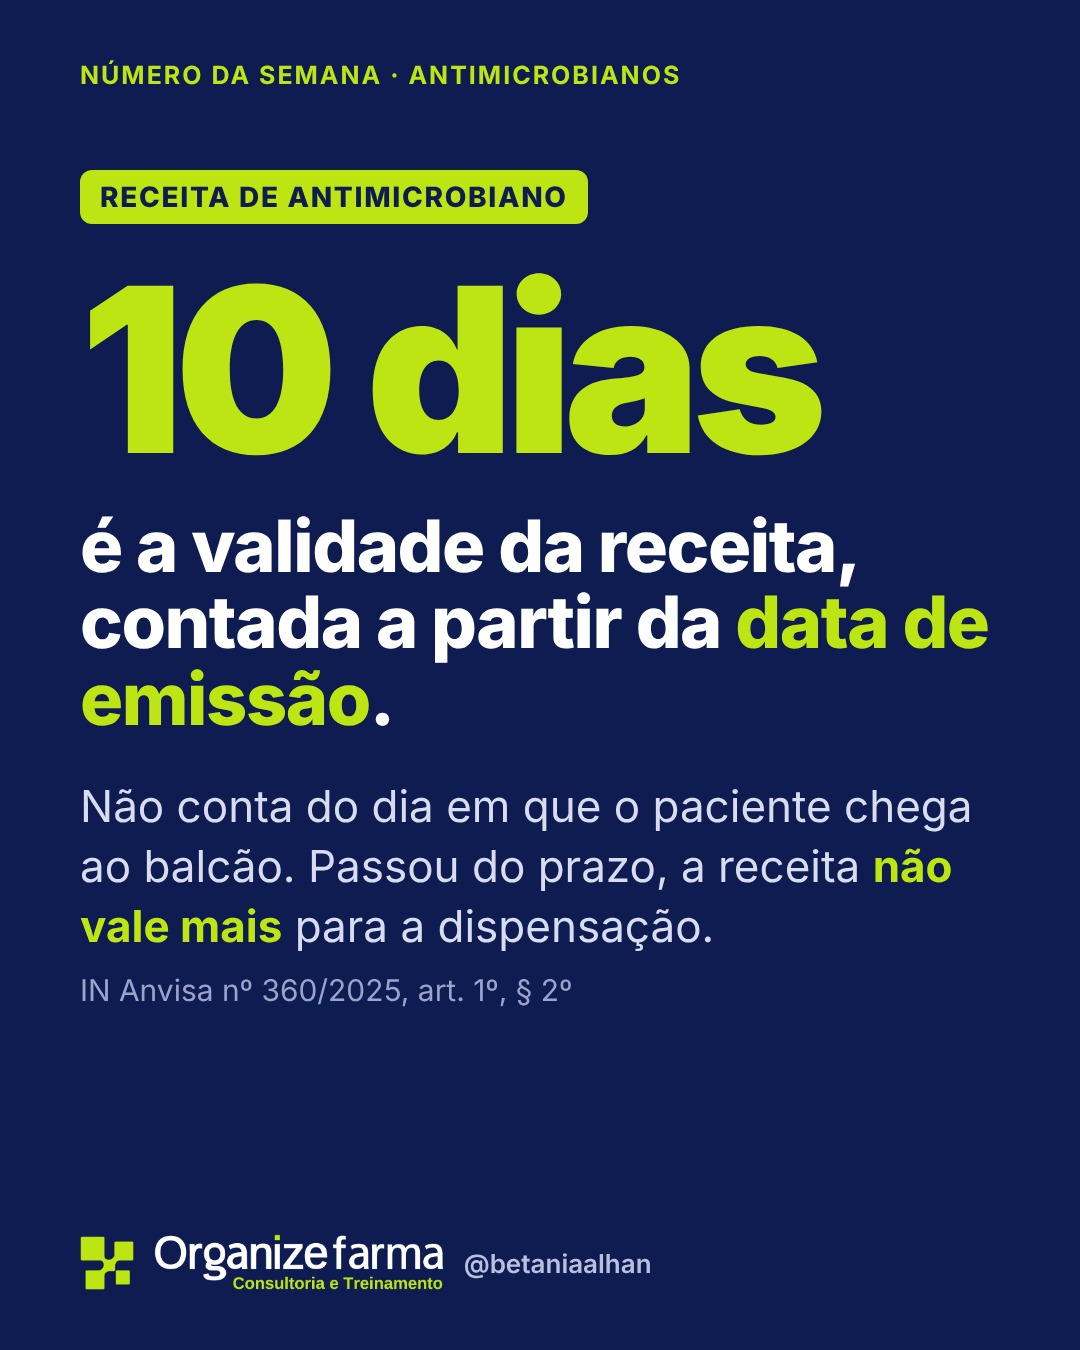
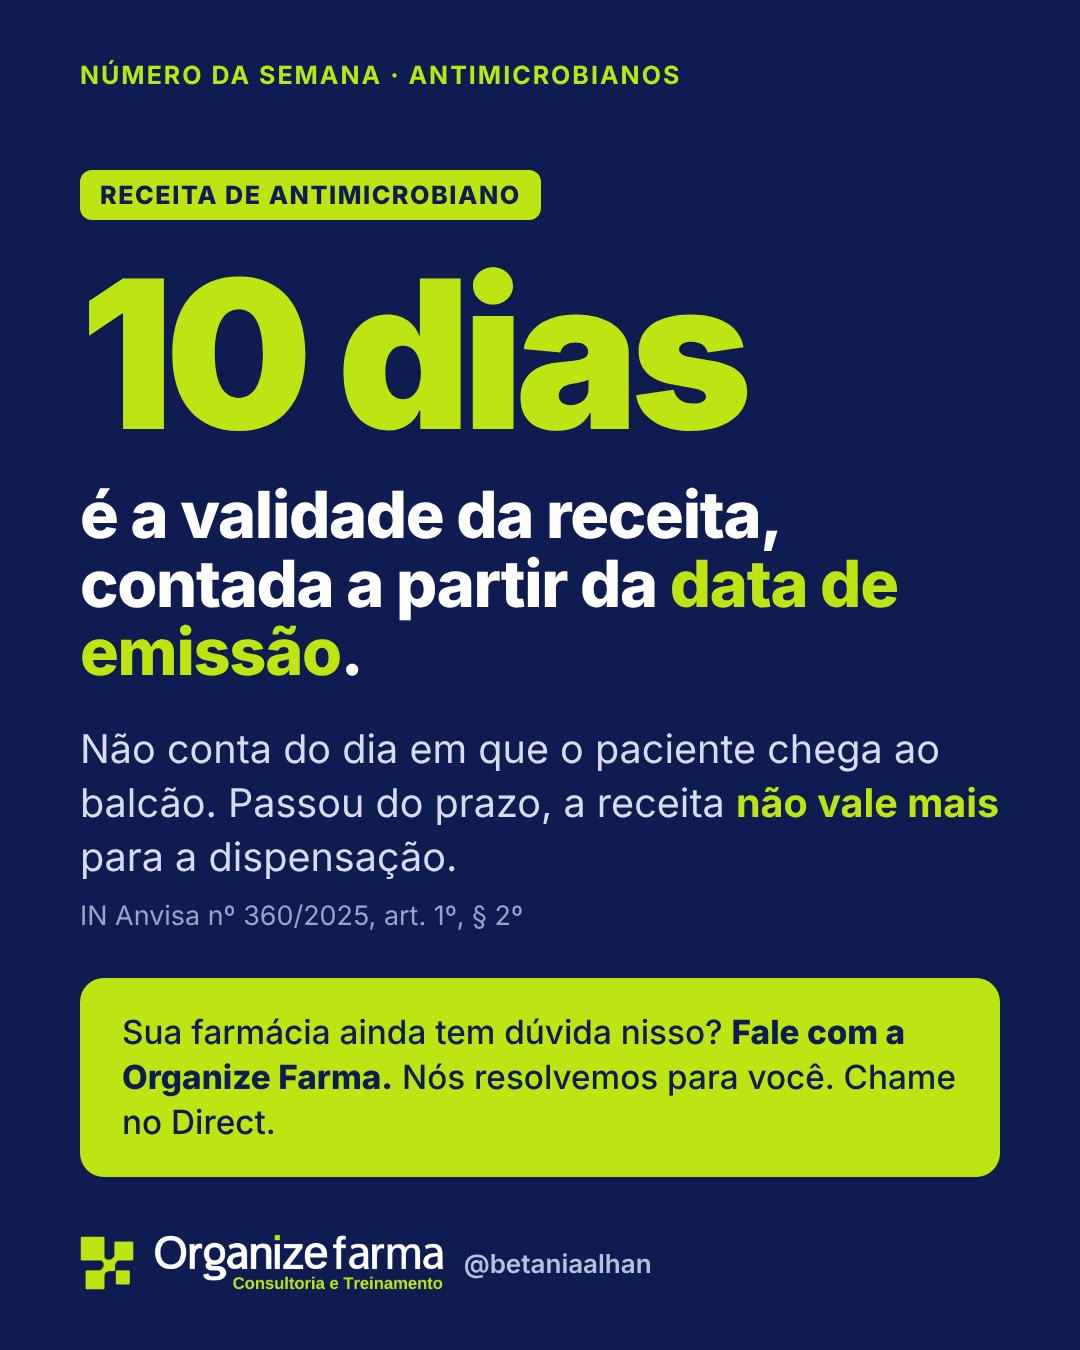
Novo calendário de temas, CTA obrigatória e fim da publicação automática
- ROTINA: segunda VISA, terça CFF/licenciamento, quarta carreira, quinta perfil
  comportamental, sexta leve (sextou); CTA da Organize Farma na última tela;
  publicação só pela Dra. Betânia, pelo app (restrição da Meta em 04/11)
- arte.py: campo cta em qualquer tela e falha se a última tela não tiver CTA
- banco-de-angulos: ângulos dos novos pilares
- card 04/11 com CTA

Claude-Session: https://claude.ai/code/session_01N47aHq1u6kxxunFyFQWEjM

Changed region(s): [[0.0611, 0.1244, 0.9472, 0.8711]]

diff --git a/fonte/arte.py b/fonte/arte.py
@@ -24,6 +24,12 @@ Tipos de tela (campo "tipo" de cada item de "telas"):
   enquete pergunta, opcoes[], [lead]                               (stories: enquete/caixa)
   final   titulo, [cta], [fontes]                                 (logo grande)
 Nos textos, <em>…</em> pinta de verde-limão e <b>…</b> destaca.
+
+Chamada para ação (obrigatória): a ÚLTIMA tela de todo post precisa de CTA.
+  - tela "final": campo "cta";
+  - qualquer outro tipo (ex.: card único): campo "cta", que vira uma faixa
+    verde-limão no fim da tela.
+  Sem CTA na última tela, o gerador falha. Modelo de CTA: ver ROTINA.md, seção 3.
 """
 import base64
 import json
@@ -149,6 +155,12 @@ def corpo(t):
     raise ValueError(f"tipo de tela desconhecido: {tipo}")
 
 
+def faixa_cta(t):
+    if t["tipo"] == "final" or not t.get("cta"):
+        return ""
+    return f'<div class="alerta">{t["cta"]}</div>'
+
+
 def pagina(spec, n, total, t, w, h, vertical):
     dots = "".join(f'<span class="{"on" if i == n else ""}"></span>' for i in range(1, total + 1)) if total > 1 else ""
     pill = f'<span class="pill">{n}/{total}</span>' if total > 1 and spec["formato"] == "carrossel" else ""
@@ -159,7 +171,7 @@ def pagina(spec, n, total, t, w, h, vertical):
                  f'<span class="arroba">{ARROBA}</span></div>')
     return f"""<!doctype html><html lang="pt-BR"><head><meta charset="utf-8"><style>{css(w, h, vertical)}</style></head><body>
 <div class="topo"><span class="tag">{spec["tag"]}</span>{pill}</div>
-<div class="conteudo">{corpo(t)}</div>
+<div class="conteudo">{corpo(t)}{faixa_cta(t)}</div>
 <div class="rodape">{marca}<div class="dots">{dots}</div></div></body></html>"""
 
 
@@ -192,6 +204,8 @@ def gerar(caminho_json):
     mn, mx = LIMITES[fmt]
     if not mn <= len(telas) <= mx:
         raise ValueError(f"{fmt} pede de {mn} a {mx} telas; vieram {len(telas)}")
+    if not telas[-1].get("cta"):
+        raise ValueError("a última tela precisa de chamada para ação (campo \"cta\"); ver ROTINA.md, seção 3")
     saida = arq.parent
     for antigo in list(saida.glob("*.jpg")) + list(saida.glob("*.mp4")):
         antigo.unlink()

diff --git a/ROTINA.md b/ROTINA.md
@@ -5,17 +5,19 @@ o tema pode voltar, mas cada post traz uma informação nova.
 Toda arte sai com a logo, o nome "Organize farma" e as cores da marca.
 **Nada é publicado sem o OK da Dra. Betânia.**
 
-## 1. Calendário de formatos
+## 1. Calendário de formatos e temas (a partir de 05/11/2026)
 
-| dia | formato | tipo de conteúdo | horário sugerido |
+Cada dia da semana tem um TEMA fixo. O formato continua variando.
+
+| dia | formato | tema do dia | horário sugerido |
 |---|---|---|---|
-| segunda | **carrossel** (5–7 telas) | ENSINA: passo a passo ou checklist aplicável hoje | 12h |
-| terça | **reel** animado (4–5 telas, ~15 s) | VOCÊ SABIA / pergunta e resposta rápida | 19h |
-| quarta | **card** único | NÚMERO: um prazo, validade ou dado da norma em destaque | 12h |
-| quinta | **carrossel** (4–6 telas) | ERROS COMUNS ou comparação em tabela (X × Y) | 12h |
-| sexta | **reel** animado (3–4 telas) | OPINIÃO / frase da Dra. Betânia sobre o setor | 19h |
-| sábado | **card** único | MITO × VERDADE | 10h |
-| domingo | **stories** (3–5 telas) | ENQUETE ou caixa de perguntas + bastidor da semana | 18h |
+| segunda | **carrossel** (5–7 telas) | **VIGILÂNCIA SANITÁRIA**: normas da Anvisa, da vigilância estadual e da municipal (licença, AFE, POPs, inspeção, RDCs) | 12h |
+| terça | **reel** animado (4–5 telas, ~15 s) | **CFF E ATUAÇÃO DO FARMACÊUTICO**: resoluções do CFF sobre atribuições, responsabilidades e áreas de atuação; licenciamento de consultório farmacêutico, telefarmácia e farmácia | 19h |
+| quarta | **card** único | **CARREIRA**: crescimento e desenvolvimento profissional do farmacêutico (ponte para a mentoria) | 12h |
+| quinta | **carrossel** (4–6 telas) | **PERFIL COMPORTAMENTAL**: liga com o tema de quarta. O farmacêutico está na atividade certa para o perfil dele? Gasta energia demais no que poderia fazer melhor e mais rápido? | 12h |
+| sexta | **reel** animado (3–4 telas) | **SEXTOU (LEVE)**: tom leve e bem-humorado, lembrando que muito farmacêutico trabalha sábado, domingo e feriado; chama para a mentoria (mais tempo de qualidade) | 19h |
+| sábado | **card** único | **MITO × VERDADE** (tema livre entre os pilares, respeitando a variedade) | 10h |
+| domingo | **stories** (3–5 telas) | **ENQUETE** ou caixa de perguntas + bastidor da semana | 18h |
 
 Novidade regulatória urgente (norma nova, prazo, prorrogação) entra no lugar
 do post do dia como **ALERTA**, no formato do dia. Se o tema já saiu nos
@@ -23,25 +25,31 @@ do post do dia como **ALERTA**, no formato do dia. Se o tema já saiu nos
 
 ## 2. Pilares (temas) e regras de variedade
 
-| código | pilar |
-|---|---|
-| CTRL | SNCR, receituários e medicamentos controlados (RDC 1.000/2025, Portaria 344/98, SNGPC) |
-| ATM | Antimicrobianos e GLP-1 (RDC 471/2021, RDC 973/2025, IN 360/2025) |
-| LIC | Licenças, vigilância sanitária e documentação (AFE, licença, POPs, PGRSS, autoinspeção) |
-| SERV | Serviços farmacêuticos (EAC — RDC 978 e 986/2025, vacinação, prescrição, testes) |
-| PUB | Publicidade, comunicação e vitrine (RDC 96/2008) |
-| CAR | Carreira, liderança e responsabilidade técnica do farmacêutico |
+| código | pilar | dia |
+|---|---|---|
+| VISA | Vigilância sanitária: Anvisa, estadual e municipal (AFE, licença, POPs, PGRSS, inspeção, controlados, antimicrobianos, RDC 44/2009, RDC 1.000/2025…) | segunda |
+| CFF | Resoluções do CFF: atribuições, responsabilidades, áreas de atuação; licenciamento de consultório, telefarmácia e farmácia | terça |
+| CAR | Carreira e desenvolvimento do farmacêutico | quarta |
+| PERF | Perfil comportamental e energia no trabalho (liga com a quarta) | quinta |
+| LEVE | Sextou: leve, humor, descanso e qualidade de vida do farmacêutico | sexta |
+
+Sábado e domingo usam qualquer pilar acima, sem repetir o pilar do dia anterior.
+Os códigos antigos (CTRL, ATM, LIC, SERV, PUB) do registro contam como VISA,
+exceto SERV, que conta como CFF.
 
 1. Antes de criar, leia `posts/registro.csv` (tudo o que já foi feito).
-2. **Nunca o mesmo pilar em dois dias seguidos**; no máximo 2 vezes por semana.
+2. O tema do dia manda (segunda a sexta). No sábado/domingo, nunca o mesmo pilar do dia anterior.
 3. **Nunca o mesmo ângulo em menos de 60 dias.** Ângulo = a informação específica
    do post. Se um ponto já saiu, só pode ser citado em uma frase ("veja o post de…").
 4. Escolha o ângulo em `banco-de-angulos.md` (marque como usado) ou crie um novo
    a partir de notícia da semana.
-5. Todo dado regulatório é conferido na fonte oficial do dia (Anvisa, DOU, CFF, CRF)
-   antes de entrar na arte. Datas, números de norma e prazos com fonte.
+5. Todo dado regulatório é conferido na fonte oficial do dia (Anvisa, DOU, CFF, CRF,
+   vigilância estadual/municipal) antes de entrar na arte. Datas, números de norma e prazos com fonte.
 6. Nada de promover medicamento de venda sob prescrição ao público (RDC 96/2008).
    Não inventar casos nem números.
+7. CAR, PERF e LEVE: sem promessas de resultado ("dobre seu salário"), sem
+   diagnóstico de perfil pelo post e sem estatísticas sem fonte. Pergunta e
+   reflexão funcionam melhor que afirmação.
 
 ## 3. Identidade visual (obrigatória)
 
@@ -49,7 +57,23 @@ do post do dia como **ALERTA**, no formato do dia. Se o tema já saiu nos
 - Cores: azul-marinho **#0F1C52** (fundo), verde-limão **#BDE513** (destaques), branco.
 - Feed 1080×1350 JPEG; stories e reels 1080×1920.
 - Use sempre o gerador `fonte/arte.py`: ele aplica a marca e **falha se a logo
-  não aparecer** ou se o texto não couber.
+  não aparecer**, se o texto não couber ou se faltar a chamada para ação.
+
+### Chamada para ação (CTA) — obrigatória em todo post
+
+Todo post informa **e** convida. A **última tela** sempre leva a CTA da
+Organize Farma (no carrossel/reel/stories, a tela `final` com `cta`; no card
+único, o campo `cta` na própria tela). A legenda também termina com a CTA.
+
+- Temas técnicos (VISA, CFF, ALERTA): "Está com dificuldade? Sua empresa ainda
+  não resolveu isso? **Fale com a Organize Farma. Nós resolvemos para você.**"
+  Na terça, quando couber: "Fazemos o licenciamento de consultório farmacêutico,
+  telefarmácia e farmácia."
+- Temas de carreira (CAR, PERF, LEVE): "Quer desenvolver sua carreira e ter mais
+  tempo de qualidade? **Fale com a Organize Farma sobre a mentoria de
+  desenvolvimento de carreira.**"
+- Canal: "Chame no Direct" (até a Dra. Betânia definir outro canal, como WhatsApp).
+- Pode variar as palavras, mas não a ideia: problema → Organize Farma resolve → como chamar.
 
 ## 4. Como produzir o post do dia
 
@@ -62,48 +86,23 @@ python3 fonte/arte.py $pasta/post.json
 cd ferramenta && python3 -m insta_organize verificar-legenda ../$pasta/legenda.txt
 ```
 Olhe a `previa.jpg` antes de enviar. Acrescente a linha no `posts/registro.csv`
-com status `aguardando`, faça commit e push, e envie à Dra. Betânia a prévia e a
-legenda, com o horário sugerido, perguntando se pode publicar.
+com status `aguardando`, faça commit e push, e envie à Dra. Betânia as artes
+(as telas em ordem, e o reel.mp4 nos dias de reel) e a legenda pronta para
+copiar, com o horário sugerido. **Ela publica pelo app.**
 
 Stories com enquete/caixa de perguntas: a API do Instagram não coloca figurinhas.
-As telas vão prontas e ela publica pelo app, adicionando o figurinha na tela marcada.
+As telas vão prontas e ela publica pelo app, adicionando a figurinha na tela marcada.
 
-## 5. Publicação (só depois do "publica" dela)
+## 5. Publicação: SEMPRE pela Dra. Betânia, pelo app
 
-- Imagens/vídeo ficam públicos em
-  `https://raw.githubusercontent.com/betaniaalhan-sudo/organizefarma-midia/main/<pasta>/<arquivo>`.
-- Confira antes que o push do post já chegou ao `main` e que cada URL responde
-  200 (`curl -s -o /dev/null -w "%{http_code}"`).
+**Desde 04/11/2026 não há publicação automática.** A Meta restringiu o portfólio
+de empresas por suspeita de automação. Por isso:
 
-### Caminho oficial: Windsor.ai (funciona direto da nuvem)
-
-- Conector `instagram`, conta `17841404439734351` (betaniaalhan). Confirme com
-  `get_connectors` que a conta aparece; se não aparecer, peça a ela para
-  selecionar a conta em https://onboard.windsor.ai?datasource=instagram
-  (não basta fazer login: a conta tem que ser marcada e salva).
-- `execute_action` (connector `instagram`, account `17841404439734351`) com a
-  ação do formato do dia (confira o schema com `list_actions`):
-  - Carrossel: `create_carousel_post` — `image_urls` (2 a 10 JPEG, ≤ 8 MB,
-    proporção entre 4:5 e 1,91:1, na ordem 01, 02, …) e `caption`.
-  - Card: `create_image_post` — `image_url` e `caption`.
-  - Reel: `create_video_post` — `video_url`, `caption` e `cover_url`.
-  - Stories de domingo: continuam pelo app (a figurinha de enquete/caixa de
-    perguntas não existe na API).
-- `caption` = conteúdo exato de `legenda.txt` (máx. 2.200 caracteres).
-- A resposta traz o `Media id`.
-
-### Alternativa: Graph API pelo Chrome dela (só se a Windsor falhar)
-
-- A API (graph.facebook.com, v26.0, IG user 17841404439734351) só é alcançável
-  pelo Chrome dela: `fetch` via Claude in Chrome a partir de uma página do
-  facebook.com. O token está no `.env` em
-  `Documentos\instagram-organize-farma` (ler pela ponte, **nunca exibir**).
-  Exige o computador dela conectado à sessão.
-- Fluxo: criar containers (`/media`), esperar `status_code=FINISHED`,
-  `/media_publish`. Carrossel: itens com `is_carousel_item=true` e pai
-  `media_type=CAROUSEL`. Reel: `media_type=REELS`, `video_url`, `cover_url`.
-  Card: `image_url`.
-
-### Depois de publicar
-
-- Status `publicado` e o id da mídia no registro; commit e push.
+- **Não publicar** por Windsor.ai, Graph API, Claude in Chrome nem nenhuma outra
+  automação, mesmo que ela peça "publica". Nesse caso, lembre que a publicação é
+  pelo app e mande de novo as artes e a legenda, se for útil.
+- A rotina só **prepara**: artes, legenda, registro como `aguardando` e envio a ela.
+- Quando ela avisar que publicou, mude o status para `publicado` (sem media_id,
+  ou com o link do post se ela mandar), faça commit e push.
+- Esta regra só muda se a Dra. Betânia pedir explicitamente a volta da
+  publicação automática **depois** de a restrição da Meta ser resolvida.

diff --git a/banco-de-angulos.md b/banco-de-angulos.md
@@ -4,6 +4,12 @@ Cada linha é **uma** informação que rende um post. Ao usar, troque `[ ]` por
 `[x AAAA-MM-DD]`. Confirme o conteúdo na fonte oficial antes de publicar;
 acrescente ângulos novos quando surgirem normas, dúvidas de clientes ou notícias.
 
+Pilares desde 05/11/2026 (ver ROTINA.md): **VISA** (segunda) = seções CTRL, ATM,
+LIC e PUB abaixo + a seção VISA; **CFF** (terça) = seção SERV + a seção CFF;
+**CAR** (quarta), **PERF** (quinta), **LEVE** (sexta).
+Números de resolução marcados com "(conferir)" precisam de checagem na fonte
+oficial antes de ir para a arte.
+
 ## CTRL — SNCR e controlados
 - [x 2026-10] Prorrogação da transição de RCE/RET para 03/03/2027 (post já publicado)
 - [x 2026-11-02] Passo a passo da conferência da receita eletrônica no balcão (carrossel)
@@ -44,7 +50,47 @@ acrescente ângulos novos quando surgirem normas, dúvidas de clientes ou notíc
 - [ ] Vitrine e gôndola: exposição de medicamentos
 - [ ] Influenciador e farmácia: cuidados
 
-## CAR — Carreira e responsabilidade técnica
+## VISA — Vigilância sanitária (Anvisa, estado, município)
+- [ ] Inspeção da vigilância municipal: o que costuma ser olhado primeiro
+- [ ] Licença sanitária: quando a renovação depende do município e quando do estado
+- [ ] Mudou layout ou ampliou a farmácia? Quando a vigilância precisa ser comunicada
+- [ ] Termo de intimação × auto de infração: diferença e prazos de defesa (regra local)
+- [ ] RDC 44/2009: os itens de Boas Práticas mais cobrados na inspeção
+- [ ] Temperatura e umidade: registro diário que a vigilância pede
+- [ ] Descarte de medicamentos vencidos e PGRSS na prática
+
+## CFF — Atribuições, responsabilidades e licenciamento
+- [ ] Atribuições clínicas do farmacêutico (Res. CFF 585/2013)
+- [ ] Prescrição farmacêutica: o que o farmacêutico pode prescrever (Res. CFF 586/2013)
+- [ ] Telefarmácia: o que a resolução do CFF permite (conferir nº vigente)
+- [ ] Consultório farmacêutico: o que precisa para registrar e funcionar (conferir)
+- [ ] Responsabilidade técnica × direção técnica: o que cada uma assume (conferir)
+- [ ] Código de Ética: deveres que mais geram processo ético (conferir)
+- [ ] Licenciamento da farmácia: a ordem dos documentos (CNPJ, CRF, vigilância, AFE) (conferir)
+- [ ] Áreas de atuação do farmacêutico reconhecidas pelo CFF (conferir lista vigente)
+
+## CAR — Carreira e desenvolvimento (mentoria)
+- [ ] Do balcão à gestão: competências que o farmacêutico precisa treinar
+- [ ] Especialização, residência ou MBA: como escolher pelo objetivo
+- [ ] Como montar um plano de carreira de 12 meses
+- [ ] Networking para farmacêutico: por onde começar sem ser invasivo
+- [ ] Empreender na farmácia: consultório próprio, consultoria, telefarmácia
+- [ ] Sinais de que você estagnou na carreira
+
+## PERF — Perfil comportamental e energia
+- [ ] Você está na função certa para o seu perfil?
+- [ ] Tarefas que drenam × tarefas que energizam: como mapear na sua semana
+- [ ] Perfis diferentes no balcão, na gestão e na clínica
+- [ ] Por que o mesmo trabalho cansa um e anima outro
+- [ ] Autoconhecimento antes da próxima promoção
+
+## LEVE — Sextou
+- [ ] "Sextou… só que não": o farmacêutico de plantão no fim de semana
+- [ ] Checklist leve para descansar de verdade na folga
+- [ ] Coisas que só quem trabalha em farmácia entende
+- [ ] Plantão de feriado: como se organizar para não chegar exausto
+
+## CAR (antigo) — Responsabilidade técnica
 - [ ] O que o RT responde pessoalmente numa autuação
 - [ ] Ausência do farmacêutico: como registrar e cobrir
 - [ ] Como treinar a equipe do balcão em 15 minutos por semana
